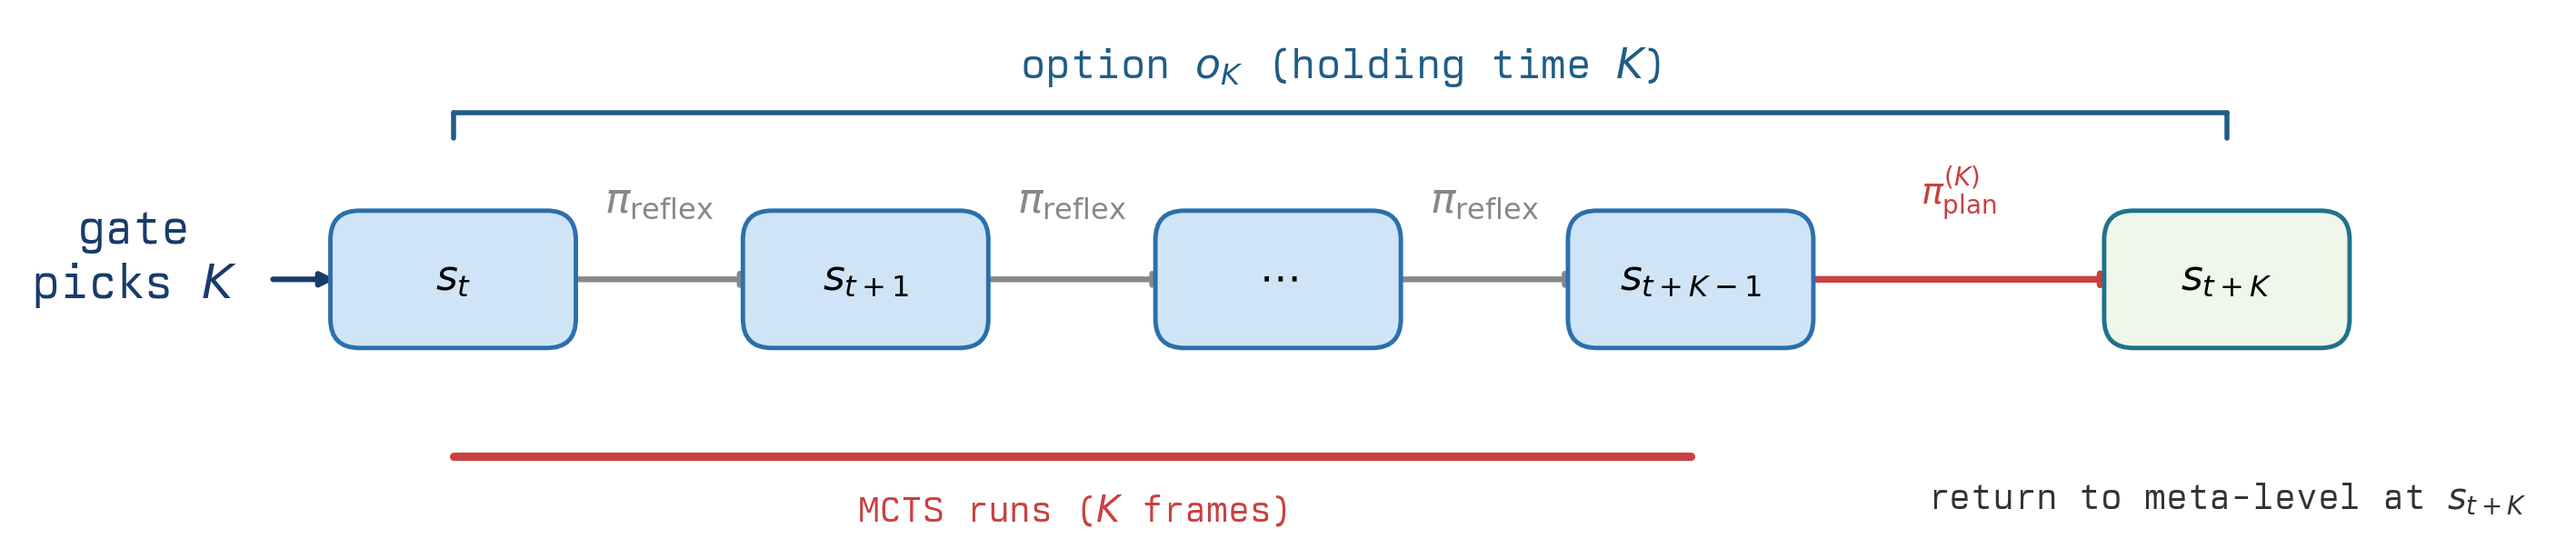
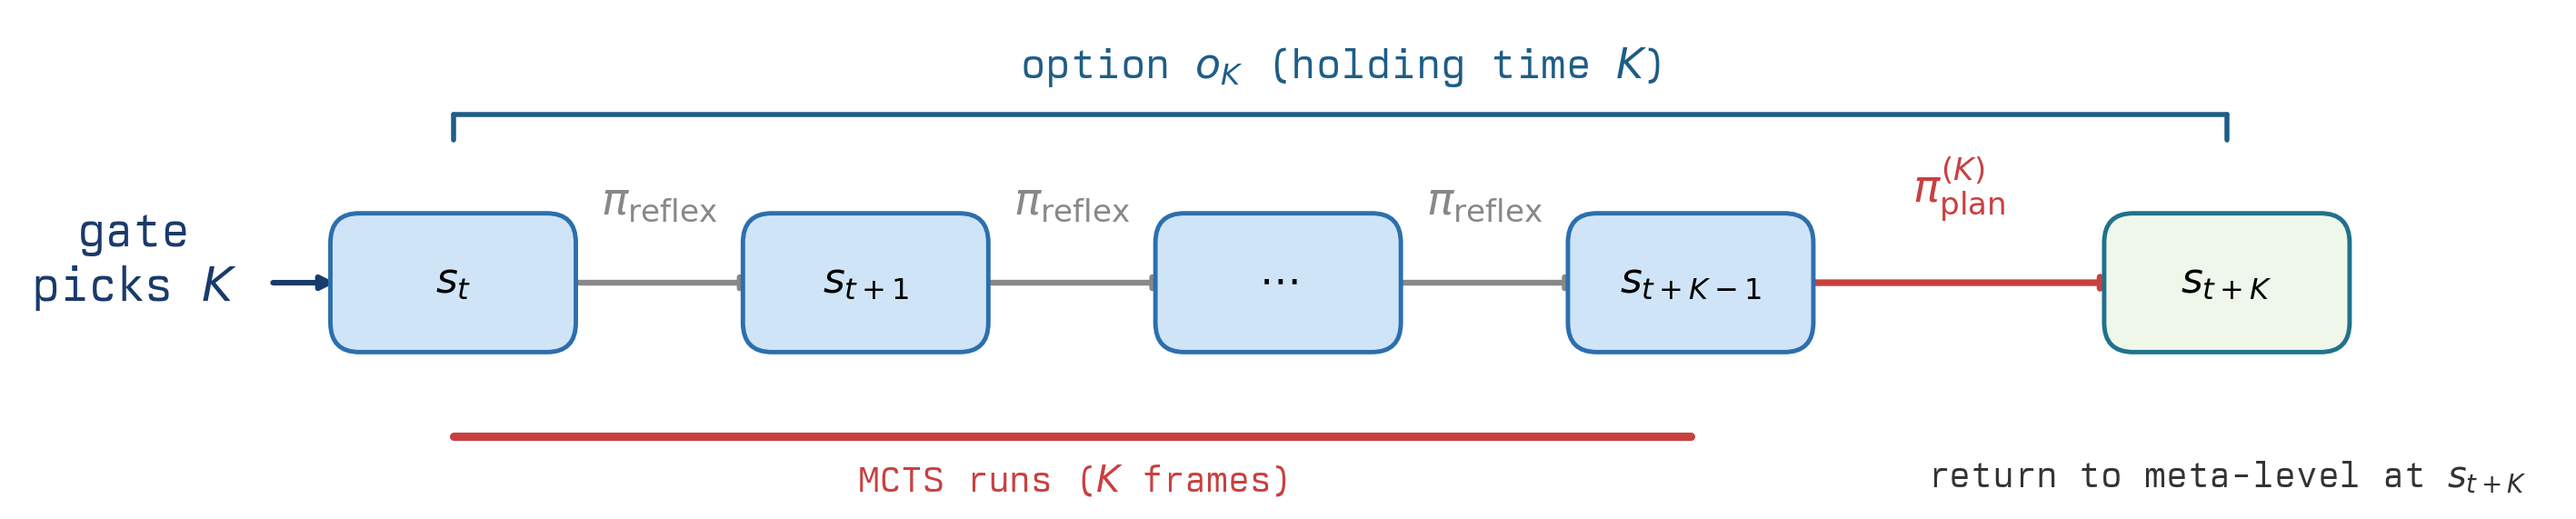
a little bit shorter

diff --git a/plot_option_timeline.py b/plot_option_timeline.py
@@ -47,7 +47,7 @@ OUT_PDF = os.path.join(FIGS, "option_timeline.pdf")
 OUT_PNG = os.path.join(FIGS, "option_timeline.png")
 
 FIG_W = 13.0
-FIG_H = 2.65
+FIG_H = 2.28
 
 STATE_W = 1.15
 STATE_H = 0.62
@@ -58,7 +58,7 @@ FONT_STATE = FS_ANNOT + 1
 FONT_LABEL = FS_ANNOT + 1
 FONT_SMALL = FS_ANNOT - 1
 FONT_GATE = FS_BADGE - 3
-FONT_REFLEX = FS_ANNOT + 1
+FONT_ACTION = FS_ANNOT + 2
 
 FINAL_STATE_COLOR = sns.color_palette("crest", 7)[4]
 OPTION_COLOR = sns.color_palette("crest", 7)[5]
@@ -118,11 +118,11 @@ def _arrow(ax, x0, x1, y, label, color, dy=0.28, lw=2.1, fsize=None):
 
 def _top_bracket(ax, x0, x1, y, text):
     ax.plot([x0, x1], [y, y], color=OPTION_COLOR, lw=1.8, zorder=1)
-    ax.plot([x0, x0], [y, y - 0.12], color=OPTION_COLOR, lw=1.8, zorder=1)
-    ax.plot([x1, x1], [y, y - 0.12], color=OPTION_COLOR, lw=1.8, zorder=1)
+    ax.plot([x0, x0], [y, y - 0.09], color=OPTION_COLOR, lw=1.8, zorder=1)
+    ax.plot([x1, x1], [y, y - 0.09], color=OPTION_COLOR, lw=1.8, zorder=1)
     ax.text(
         0.5 * (x0 + x1),
-        y + 0.12,
+        y + 0.08,
         text,
         ha="center",
         va="bottom",
@@ -135,7 +135,7 @@ def _mcts_bar(ax, x0, x1, y, text):
     ax.plot([x0, x1], [y, y], color=C_RED, lw=3.0, solid_capstyle="round", zorder=1)
     ax.text(
         0.5 * (x0 + x1),
-        y - 0.18,
+        y - 0.13,
         text,
         ha="center",
         va="top",
@@ -147,7 +147,7 @@ def _mcts_bar(ax, x0, x1, y, text):
 def draw():
     fig, ax = plt.subplots(figsize=(FIG_W, FIG_H))
     ax.set_xlim(-2.1, 10.2)
-    ax.set_ylim(-1.18, 1.25)
+    ax.set_ylim(-0.88, 1.10)
     ax.axis("off")
 
     state_labels = [
@@ -164,23 +164,23 @@ def draw():
         else:
             _state_box(ax, x, Y_STATE, label, facecolor=C_STATE, edgecolor=C_BLUE)
 
-    _arrow(ax, X_STATES[0], X_STATES[1], Y_STATE, r"$\pi_{\mathrm{reflex}}$", C_MID_GRAY, fsize=FONT_REFLEX)
-    _arrow(ax, X_STATES[1], X_STATES[2], Y_STATE, r"$\pi_{\mathrm{reflex}}$", C_MID_GRAY, fsize=FONT_REFLEX)
-    _arrow(ax, X_STATES[2], X_STATES[3], Y_STATE, r"$\pi_{\mathrm{reflex}}$", C_MID_GRAY, fsize=FONT_REFLEX)
-    _arrow(ax, X_STATES[3], X_STATES[4], Y_STATE, r"$\pi_{\mathrm{plan}}^{(K)}$", C_RED, lw=2.4)
+    _arrow(ax, X_STATES[0], X_STATES[1], Y_STATE, r"$\pi_{\mathrm{reflex}}$", C_MID_GRAY, fsize=FONT_ACTION)
+    _arrow(ax, X_STATES[1], X_STATES[2], Y_STATE, r"$\pi_{\mathrm{reflex}}$", C_MID_GRAY, fsize=FONT_ACTION)
+    _arrow(ax, X_STATES[2], X_STATES[3], Y_STATE, r"$\pi_{\mathrm{reflex}}$", C_MID_GRAY, fsize=FONT_ACTION)
+    _arrow(ax, X_STATES[3], X_STATES[4], Y_STATE, r"$\pi_{\mathrm{plan}}^{(K)}$", C_RED, lw=2.4, fsize=FONT_ACTION)
 
     _mcts_bar(
         ax,
         X_STATES[0],
         X_STATES[3],
-        -0.85,
+        -0.58,
         r"MCTS runs ($K$ frames)",
     )
     _top_bracket(
         ax,
         X_STATES[0],
         X_STATES[4],
-        0.8,
+        0.68,
         r"option $o_K$ (holding time $K$)",
     )
 
@@ -203,8 +203,8 @@ def draw():
 
     ax.text(
         X_STATES[4],
-        -0.97,
-        r"return to meta-level at $s_{t+K}$",
+        -0.69,
+        r"meta level at $s_{t+K}$",
         ha="center",
         va="top",
         fontsize=FONT_SMALL,
